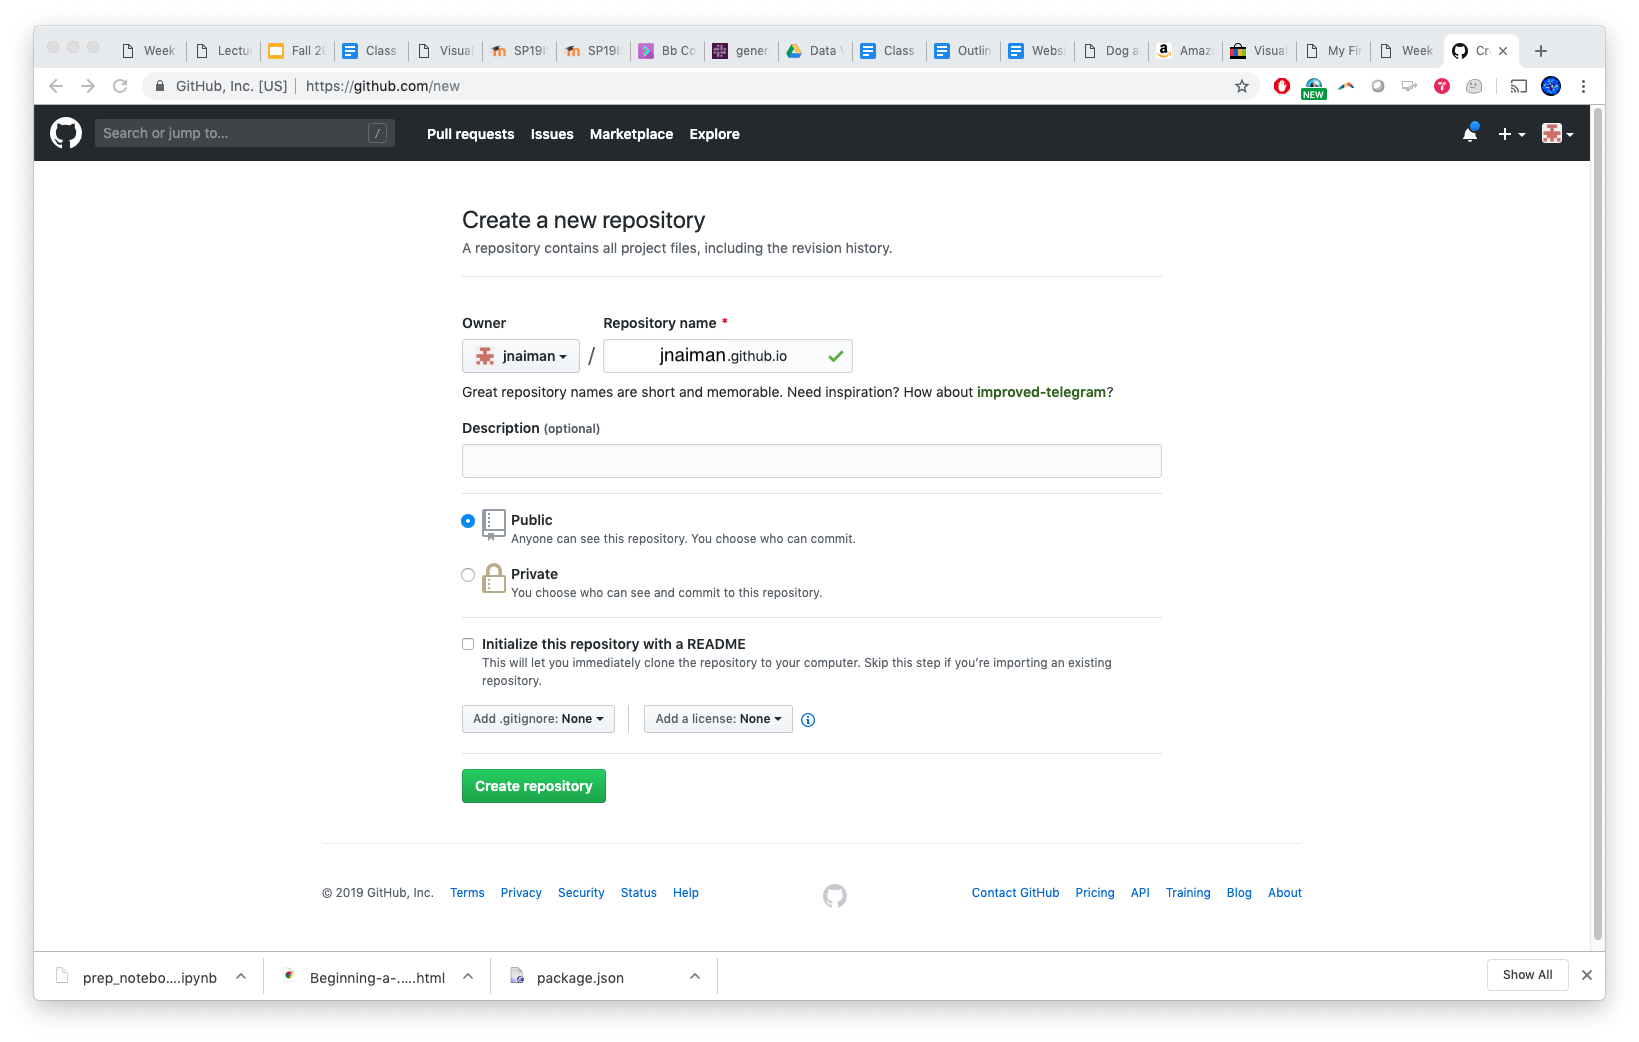
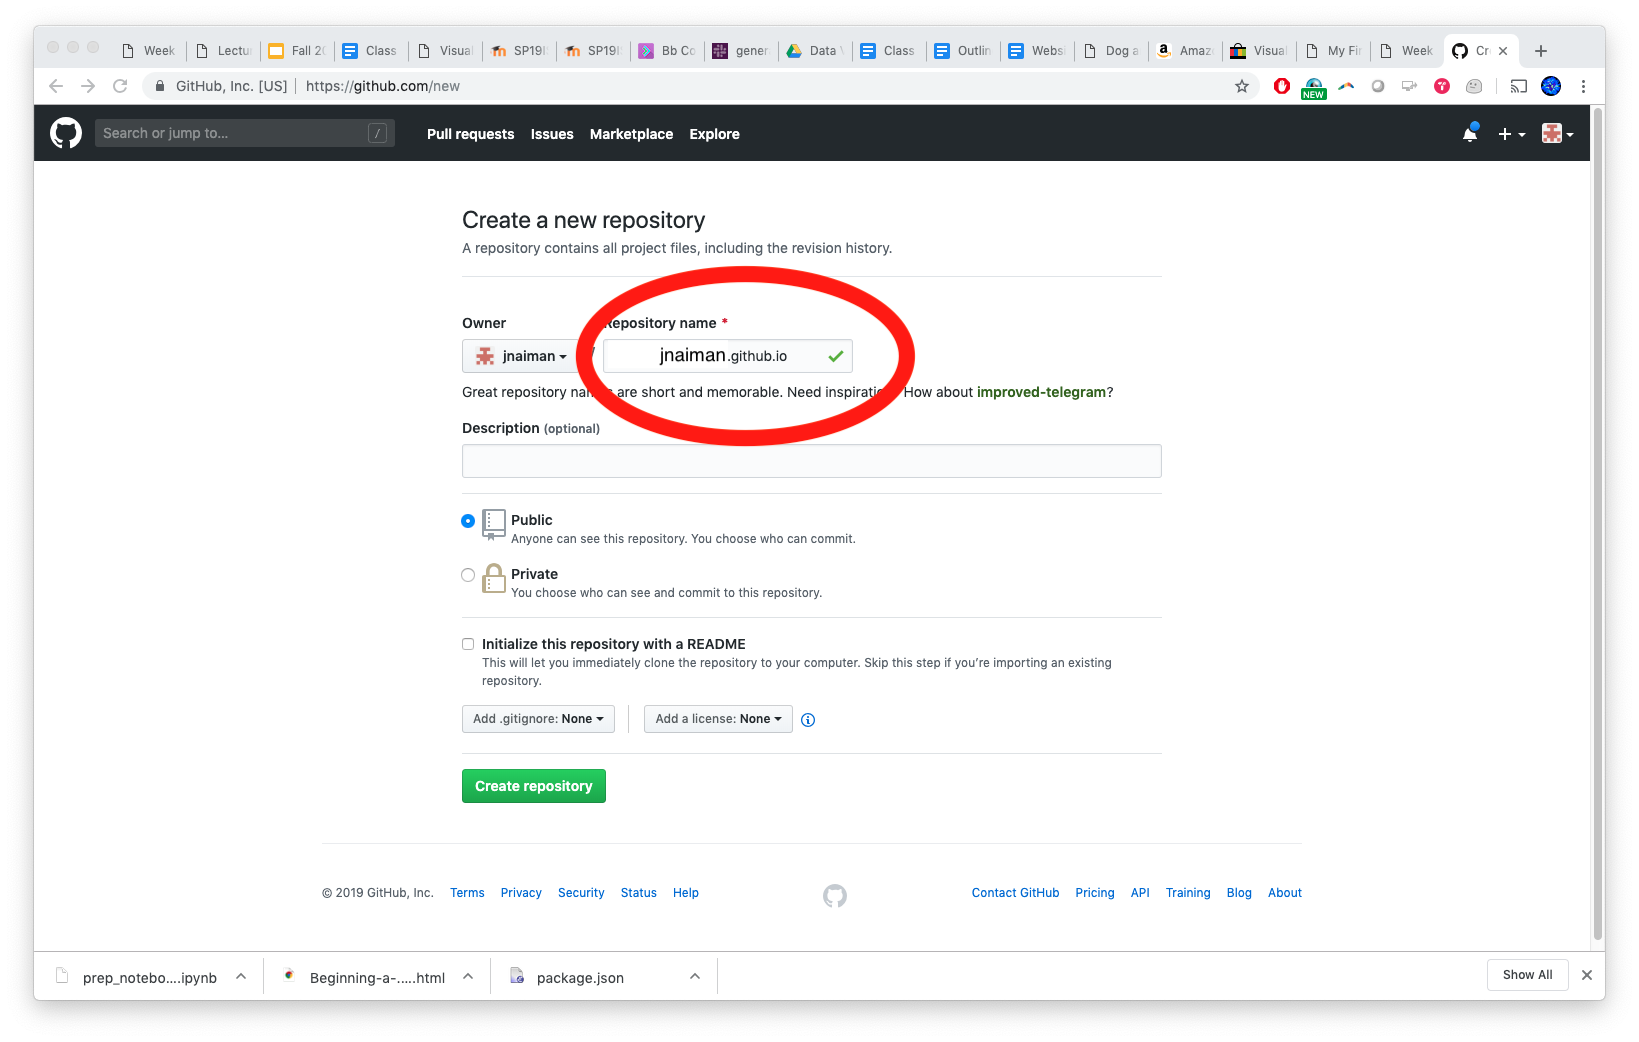
adding lecture

Changed region(s): [[0.3423, 0.2457, 0.5601, 0.4299]]

diff --git a/_site/week11/lecture11.html b/_site/week11/lecture11.html
@@ -153,6 +153,7 @@ The address is 1205 W Clark St, just north of the Siebel computer science buildi
  * Validation
  * Publishing
  * More on Idyll
+ * github.io pages
 
 ---
 
@@ -449,7 +450,7 @@ This is how you can reach people through their phones and popular new media like
 
 <img src="images/blanketAndLeggings.png" width="800"/>
 
-notes: here the blanket is the hottest temperature recorded every year 
+notes: here the blanket is the daily temperature recorded every day for a year 
 
 the leggings are a scientific viz - the leg on the left is density and the right is temperature, taken from a simulation of stars forming in a gaseous region
 
@@ -483,29 +484,159 @@ Cons:
  * Difficult to design and implement well
  * Hard to work with editorial collaborators (not in CMS’s)
 
+---
+
+## Idyll: getting your viz on the web
+
+We'll be using github pages (github.io) to do this.
+
+The steps will be:
+
+ * Create the repository ```[username].github.io``` 
+ * Clone this repository
+ * Fill it with your Idyll build
+ * Push your repository
+ * PROFIT
+
+---
+
+## ~~Idyll~~ Jupyter notebooks: getting your viz on the web
+
+We'll be using github pages (github.io) to do this.
+
+The steps will be:
+
+ * Create the repository ```[username].github.io``` 
+ * Clone this repository
+ * Fill it with your ~~Idyll build~~ Jupyter notebook & dataset
+ * Push your repository
+ * Use [mybinder.org](https://mybinder.org/) to create a link to your notebook
+ * PROFIT
+
+notes: the process for building a jupyter notebook will be very much the same, the steps are just a little different
+
+---
+
+## github.io for publishing
+
+Step 1: Create/login to your github account
+
+(We'll also do this "live" in the coding section of class)
+
+---
+
+## github.io for publishing
+
+Step 2: Create new repository
+
+<img src="images/githubio1.png" width="800"/>
+
+---
+
+## github.io for publishing
+
+Step 2: Create new repository
+
+<img src="images/githubio1_nm.png" width="800"/>
+
+---
+
+## github.io for publishing
+
+Step 3: Name your new repository as ```[username].github.io```
+
+<img src="images/githubio2_nm.png" width="800"/>
+
+---
+
+## github.io for publishing
+
+Step 3: Name your new repository as ```[username].github.io```
+
+<img src="images/githubio2.png" width="800"/>
+
+notes: the name is important here!!
+
+---
+
+## github.io for publishing
+
+Step 4: Clone your repository
+
+<img src="images/githubio3_nm.png" width="800"/>
+
+---
+
+## github.io for publishing
+
+Step 4: Clone your repository
+
+<img src="images/githubio3.png" width="800"/>
+
+notes: make note of your git name, we'll use this for "cloning" our github repo
+
+---
+
+## github.io for publishing
+
+Step 5: Clone your repository
+ * In command line do: ```git clone YOUR_REPO_LINK```
+
+Step 6: Copy contents of your Idyll build to this directory
+ * ```cp -r MY_IDYLL_FILE/build MY_REPO_DIR```
+
+---
+
+## github.io for publishing
+
+Step 7: Add these files to your repo officially
+ * ```git add -A```
+ 
+Step 8: Commit these files (say what you are doing)
+ * ```git commit -m "my first add"
+ 
+Step 9: Push to your online repo
+ * ```git push```
+ 
+Step 10: wait for your website to build and then check it out!
+ * Link: ```https://YOUR_GITHUB_USER_NAME.github.io/```
+
+---
+
+## github.io for publishing Jupyter notebooks
+
+Steps are essentially the same, but instead of your Idyll build directory, you add in your notebook file.
+
+Then, you need to link this on [mybinder.org](https://mybinder.org)
 
 ---
 
 ## Final Project: Part 2
 
-Due by class on April 15th, submitted via Moodle in a Jupyter notebook.
+Due by class on April 18th, submitted via Moodle in a Jupyter notebook.
 
-As a group you should submit:
+Submit code and a writeup (either seperate or within the notebook):
 
 Code:
- * Jupyter notebook with an interactive dashboard that helps an expert explore your dataset thoroughly. There should be 4 linked visualizations all exploring the same dataset and all visible at the same time. (3 linked visualizations for teams of 3.)
+ * Jupyter notebook with an interactive dashboard that helps an expert explore your dataset thoroughly. 
+ * There should be a "dashboard" type aspect to this - i.e. a linked view exploring your dataset in an interactive way
  * Do not delete any cells, just comment them out. Show your work.
 
 ---
 
 ## Final Project: Part 2 (cont)
 
-As a group you should submit:
+Also submit:
 
 Prose:
  * One paragraph explaining how to use the dashboard you created, to help someone who is not an expert understand your dataset. 
- * A list of 5 (or more) contextual datasets you have identified, links to where they reside, and a sentence about why they might be useful in telling the final story.
- * A brief description of which group members completed which tasks. There should be an equal division of labor. Each group member will be graded based on how well they completed their tasks. If one group member clearly does less work, they may receive a grade deduction.
+ * A list of 1 or more contextual datasets you have identified, links to where they reside, and a sentence about why they might be useful in telling the final story.
+ 
+ Per usual, we will have a group google doc for this assignment.  
+
+---
+
+## Let's get into some Idyll & publishing!
 
 
           </script>

diff --git a/week11/lecture11.md b/week11/lecture11.md
@@ -41,6 +41,7 @@ The address is 1205 W Clark St, just north of the Siebel computer science buildi
  * Validation
  * Publishing
  * More on Idyll
+ * github.io pages
 
 ---
 
@@ -337,7 +338,7 @@ This is how you can reach people through their phones and popular new media like
 
 <img src="images/blanketAndLeggings.png" width="800"/>
 
-notes: here the blanket is the hottest temperature recorded every year 
+notes: here the blanket is the daily temperature recorded every day for a year 
 
 the leggings are a scientific viz - the leg on the left is density and the right is temperature, taken from a simulation of stars forming in a gaseous region
 
@@ -371,27 +372,157 @@ Cons:
  * Difficult to design and implement well
  * Hard to work with editorial collaborators (not in CMS’s)
 
+---
+
+## Idyll: getting your viz on the web
+
+We'll be using github pages (github.io) to do this.
+
+The steps will be:
+
+ * Create the repository ```[username].github.io``` 
+ * Clone this repository
+ * Fill it with your Idyll build
+ * Push your repository
+ * PROFIT
+
+---
+
+## ~~Idyll~~ Jupyter notebooks: getting your viz on the web
+
+We'll be using github pages (github.io) to do this.
+
+The steps will be:
+
+ * Create the repository ```[username].github.io``` 
+ * Clone this repository
+ * Fill it with your ~~Idyll build~~ Jupyter notebook & dataset
+ * Push your repository
+ * Use [mybinder.org](https://mybinder.org/) to create a link to your notebook
+ * PROFIT
+
+notes: the process for building a jupyter notebook will be very much the same, the steps are just a little different
+
+---
+
+## github.io for publishing
+
+Step 1: Create/login to your github account
+
+(We'll also do this "live" in the coding section of class)
+
+---
+
+## github.io for publishing
+
+Step 2: Create new repository
+
+<img src="images/githubio1.png" width="800"/>
+
+---
+
+## github.io for publishing
+
+Step 2: Create new repository
+
+<img src="images/githubio1_nm.png" width="800"/>
+
+---
+
+## github.io for publishing
+
+Step 3: Name your new repository as ```[username].github.io```
+
+<img src="images/githubio2_nm.png" width="800"/>
+
+---
+
+## github.io for publishing
+
+Step 3: Name your new repository as ```[username].github.io```
+
+<img src="images/githubio2.png" width="800"/>
+
+notes: the name is important here!!
+
+---
+
+## github.io for publishing
+
+Step 4: Clone your repository
+
+<img src="images/githubio3_nm.png" width="800"/>
+
+---
+
+## github.io for publishing
+
+Step 4: Clone your repository
+
+<img src="images/githubio3.png" width="800"/>
+
+notes: make note of your git name, we'll use this for "cloning" our github repo
+
+---
+
+## github.io for publishing
+
+Step 5: Clone your repository
+ * In command line do: ```git clone YOUR_REPO_LINK```
+
+Step 6: Copy contents of your Idyll build to this directory
+ * ```cp -r MY_IDYLL_FILE/build MY_REPO_DIR```
+
+---
+
+## github.io for publishing
+
+Step 7: Add these files to your repo officially
+ * ```git add -A```
+ 
+Step 8: Commit these files (say what you are doing)
+ * ```git commit -m "my first add"
+ 
+Step 9: Push to your online repo
+ * ```git push```
+ 
+Step 10: wait for your website to build and then check it out!
+ * Link: ```https://YOUR_GITHUB_USER_NAME.github.io/```
+
+---
+
+## github.io for publishing Jupyter notebooks
+
+Steps are essentially the same, but instead of your Idyll build directory, you add in your notebook file.
+
+Then, you need to link this on [mybinder.org](https://mybinder.org)
 
 ---
 
 ## Final Project: Part 2
 
-Due by class on April 15th, submitted via Moodle in a Jupyter notebook.
+Due by class on April 18th, submitted via Moodle in a Jupyter notebook.
 
-As a group you should submit:
+Submit code and a writeup (either seperate or within the notebook):
 
 Code:
- * Jupyter notebook with an interactive dashboard that helps an expert explore your dataset thoroughly. There should be 4 linked visualizations all exploring the same dataset and all visible at the same time. (3 linked visualizations for teams of 3.)
+ * Jupyter notebook with an interactive dashboard that helps an expert explore your dataset thoroughly. 
+ * There should be a "dashboard" type aspect to this - i.e. a linked view exploring your dataset in an interactive way
  * Do not delete any cells, just comment them out. Show your work.
 
 ---
 
 ## Final Project: Part 2 (cont)
 
-As a group you should submit:
+Also submit:
 
 Prose:
  * One paragraph explaining how to use the dashboard you created, to help someone who is not an expert understand your dataset. 
- * A list of 5 (or more) contextual datasets you have identified, links to where they reside, and a sentence about why they might be useful in telling the final story.
- * A brief description of which group members completed which tasks. There should be an equal division of labor. Each group member will be graded based on how well they completed their tasks. If one group member clearly does less work, they may receive a grade deduction.
+ * A list of 1 or more contextual datasets you have identified, links to where they reside, and a sentence about why they might be useful in telling the final story.
+ 
+ Per usual, we will have a group google doc for this assignment.  
+
+---
+
+## Let's get into some Idyll & publishing!
 
